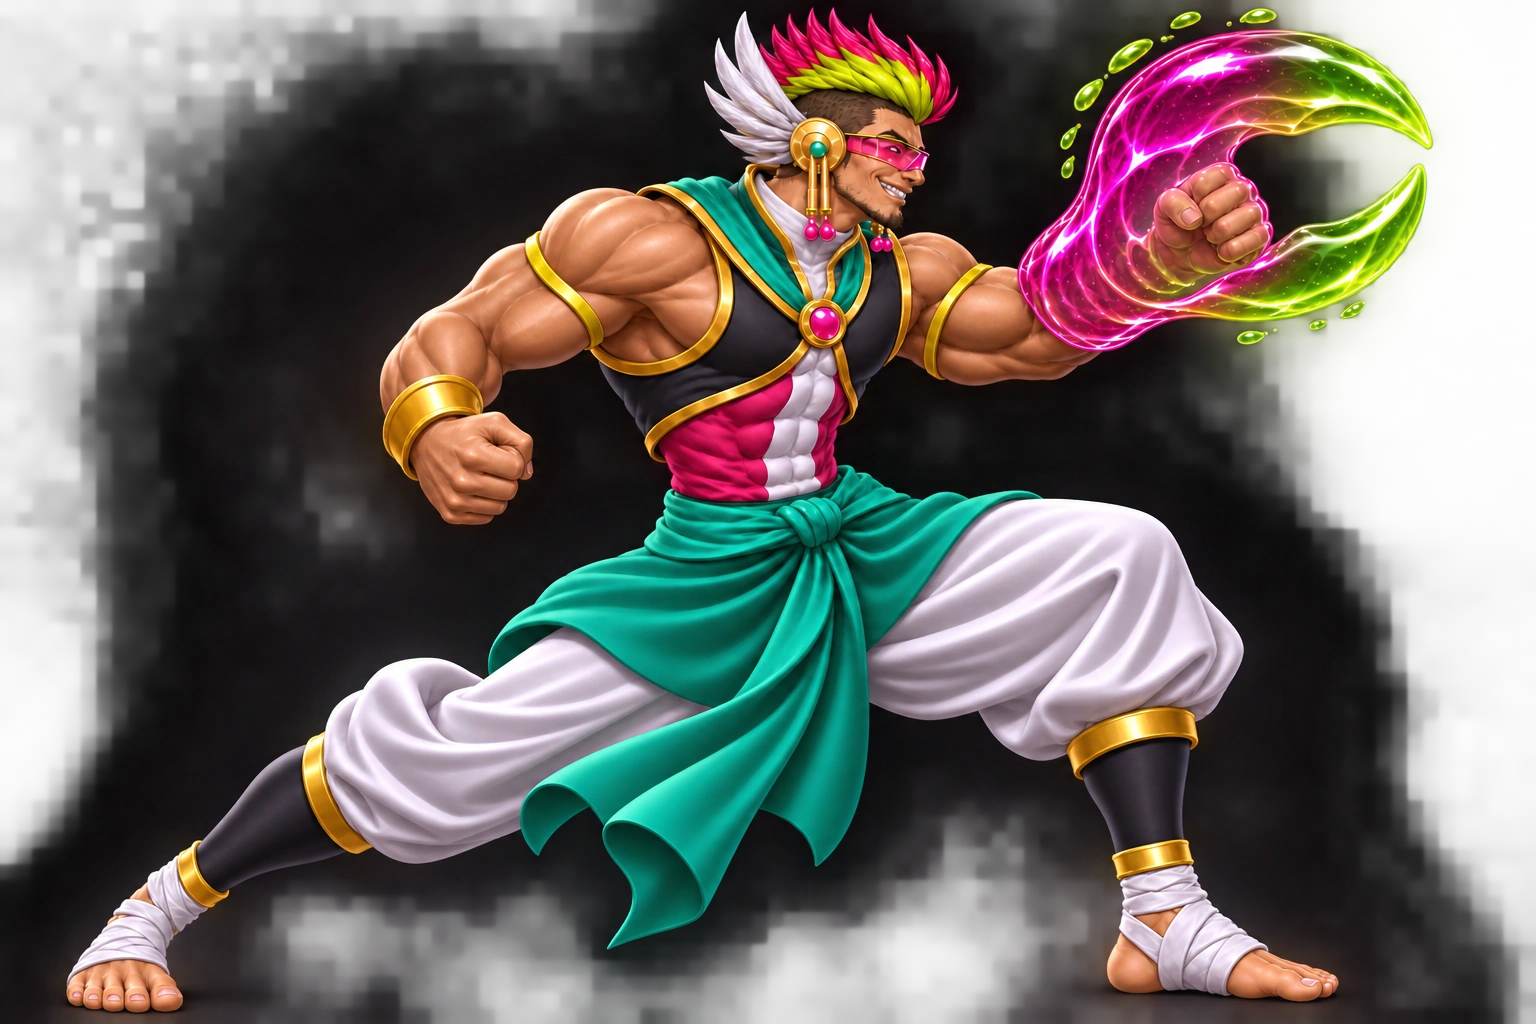
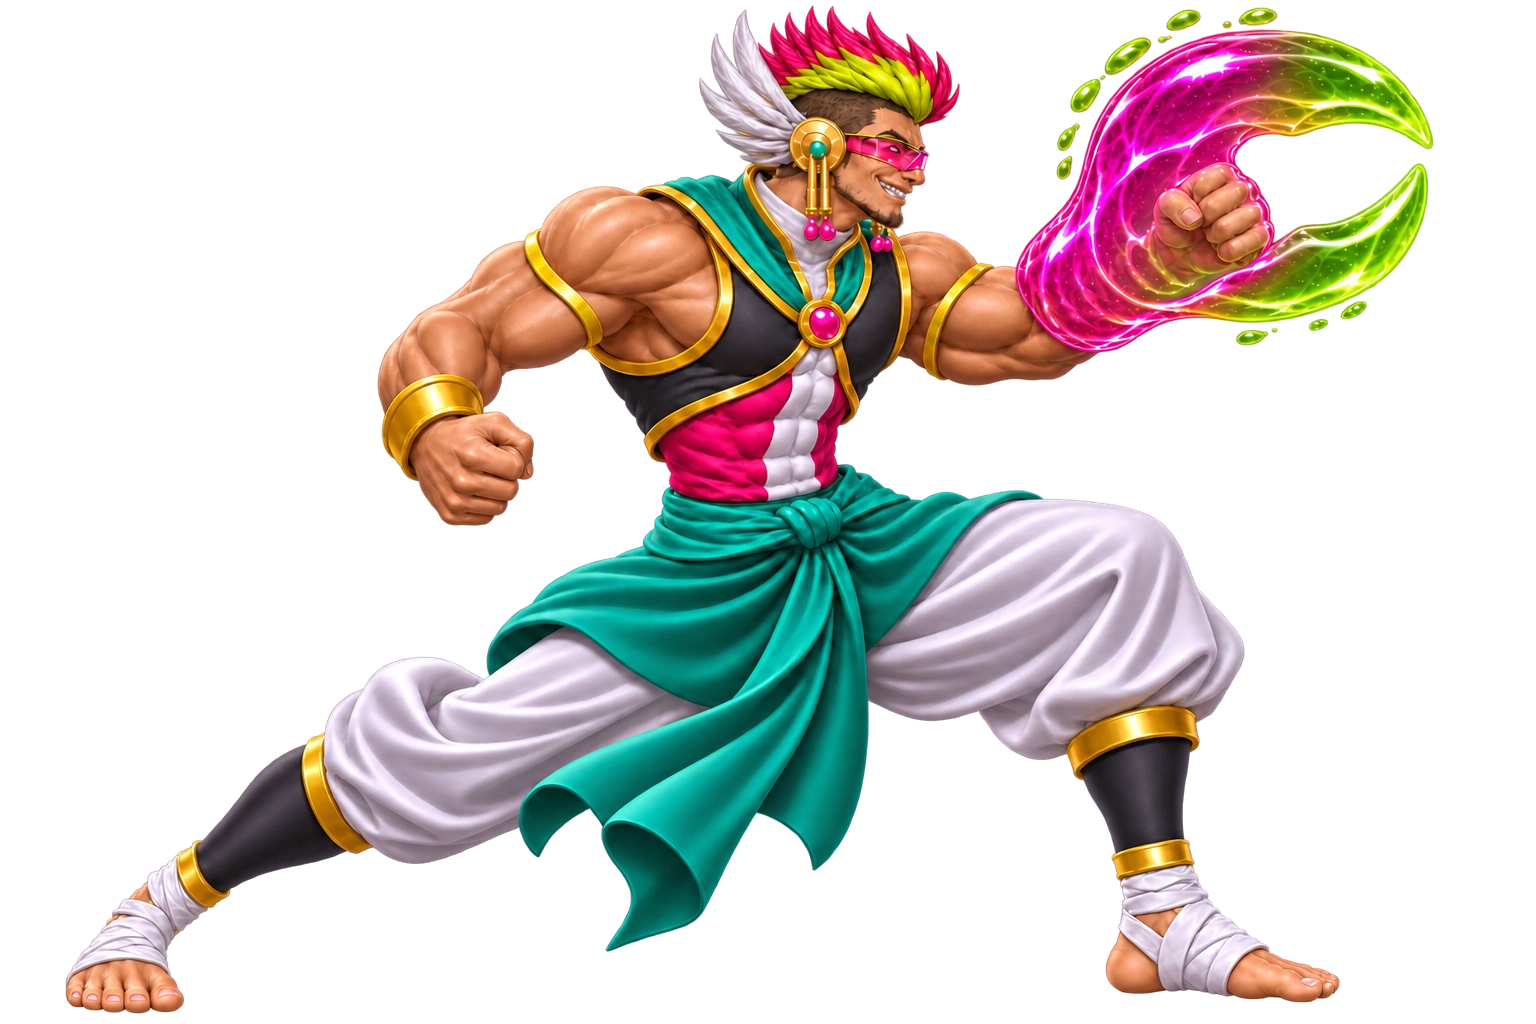
Remove Coyote sprite backdrop haze

diff --git a/game.js b/game.js
@@ -3525,7 +3525,7 @@ function setVersusCharacterImage(elementId, card) {
   const assetId = characterArtAliases[card.id] || card.id;
   const frame = versusStanceFrames.get(assetId);
   const fallback = resultCharacterPath(card, 'victory');
-  const url = frame ? `assets/versus-characters/${assetId}.webp?v=${poseArtVersion(assetId, 'stances-v6')}` : fallback;
+  const url = frame ? `assets/versus-characters/${assetId}.webp?v=${poseArtVersion(assetId, 'stances-v7')}` : fallback;
   if (image.dataset.versusArt !== url) {
     image.dataset.versusArt = url;
     if (frame) {
